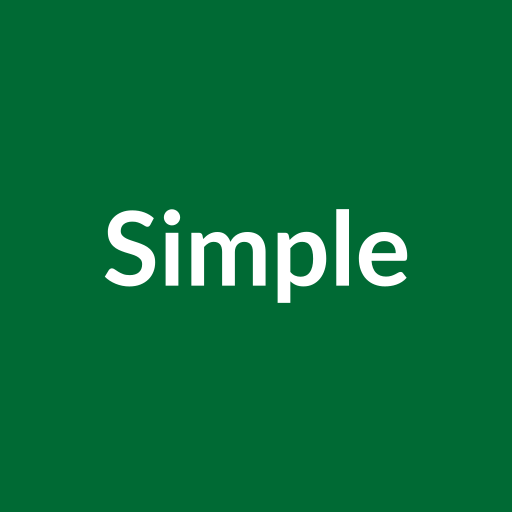
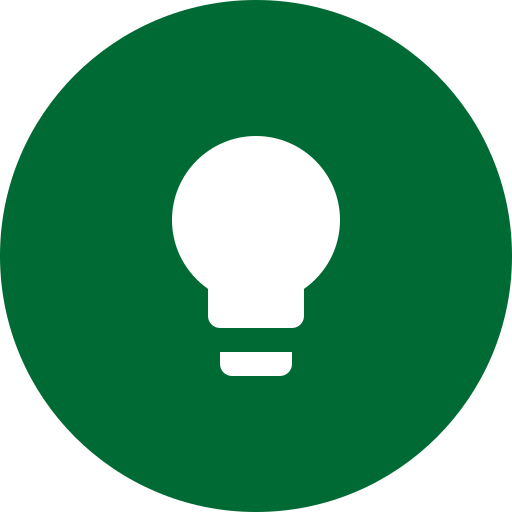
6° Commit

diff --git a/convert-icon.js b/convert-icon.js
@@ -1,0 +1,26 @@
+const sharp = require("sharp");
+const path = require("path");
+
+const svgPath = path.join(__dirname, "public", "icon.svg");
+const png192Path = path.join(__dirname, "public", "icon-192x192.png");
+const png512Path = path.join(__dirname, "public", "icon-512x512.png");
+
+async function convert() {
+  try {
+    await sharp(svgPath)
+      .resize(192, 192)
+      .png()
+      .toFile(png192Path);
+    console.log("Created icon-192x192.png");
+
+    await sharp(svgPath)
+      .resize(512, 512)
+      .png()
+      .toFile(png512Path);
+    console.log("Created icon-512x512.png");
+  } catch (err) {
+    console.error("Error converting icons:", err);
+  }
+}
+
+convert();